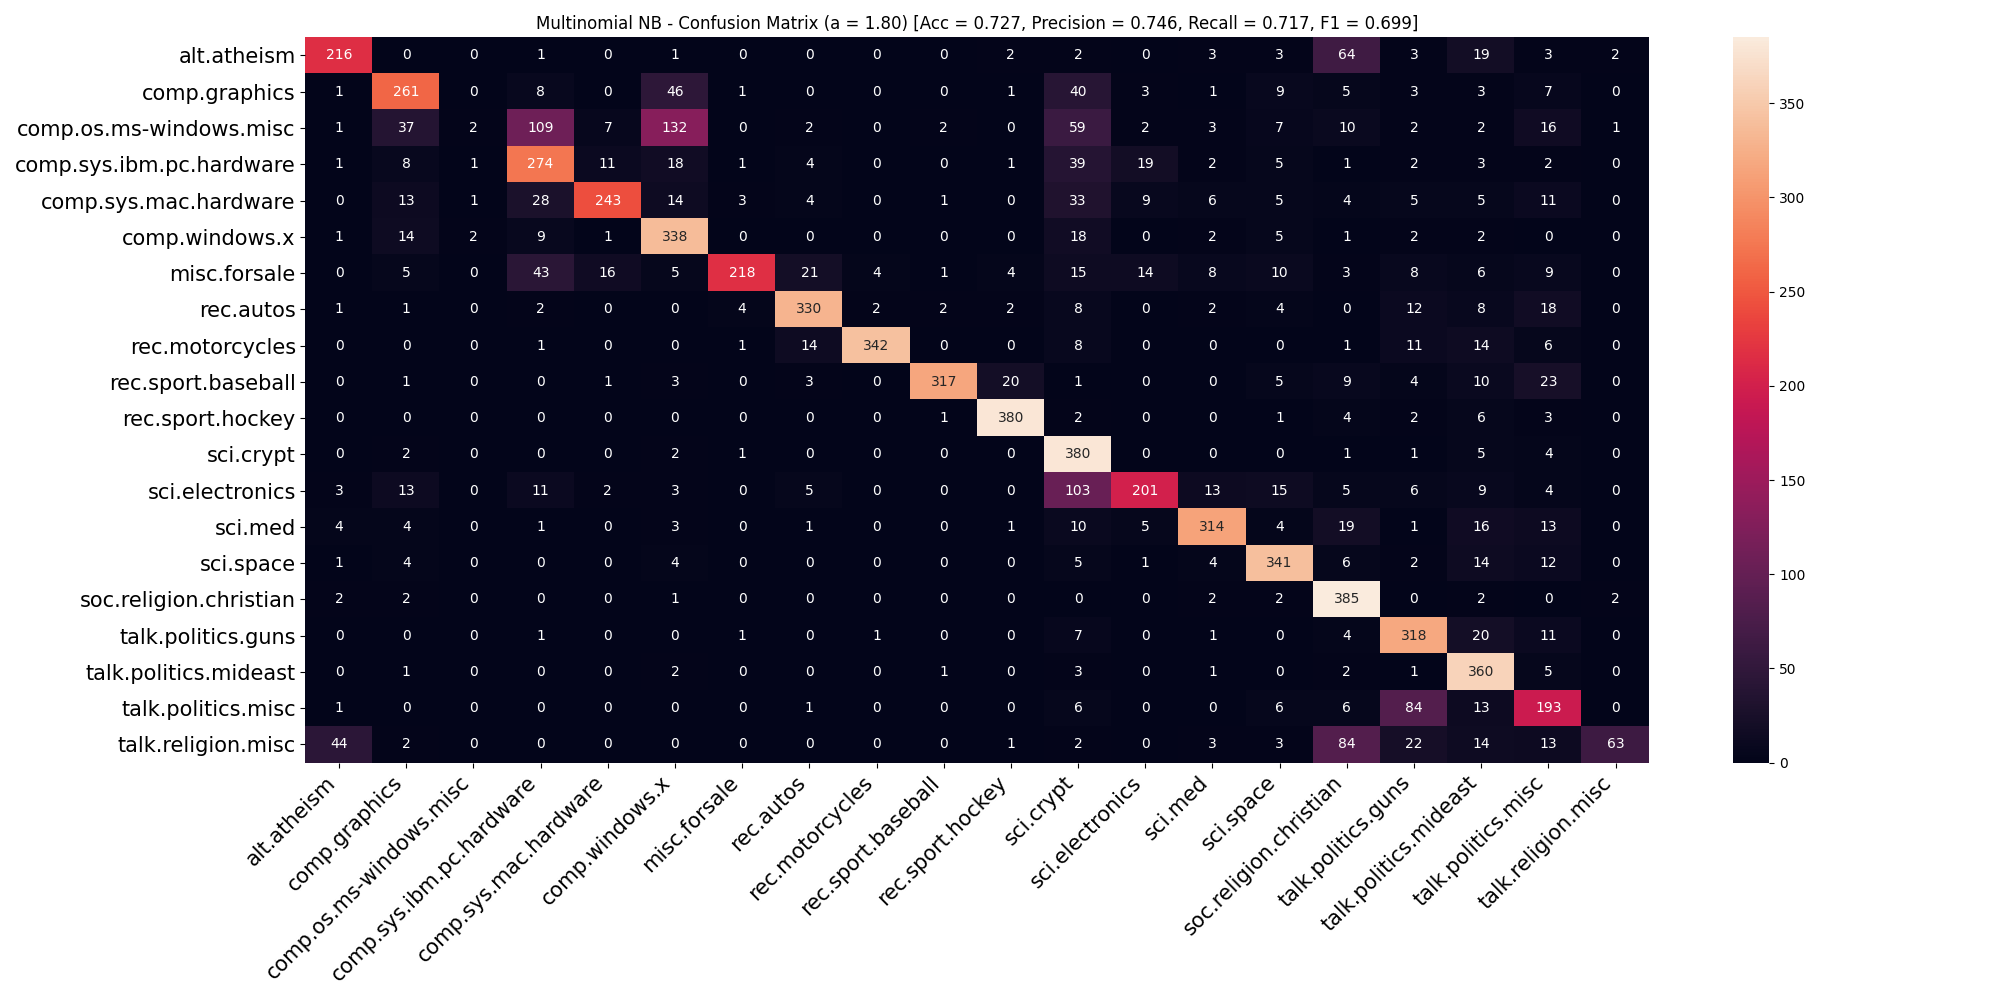
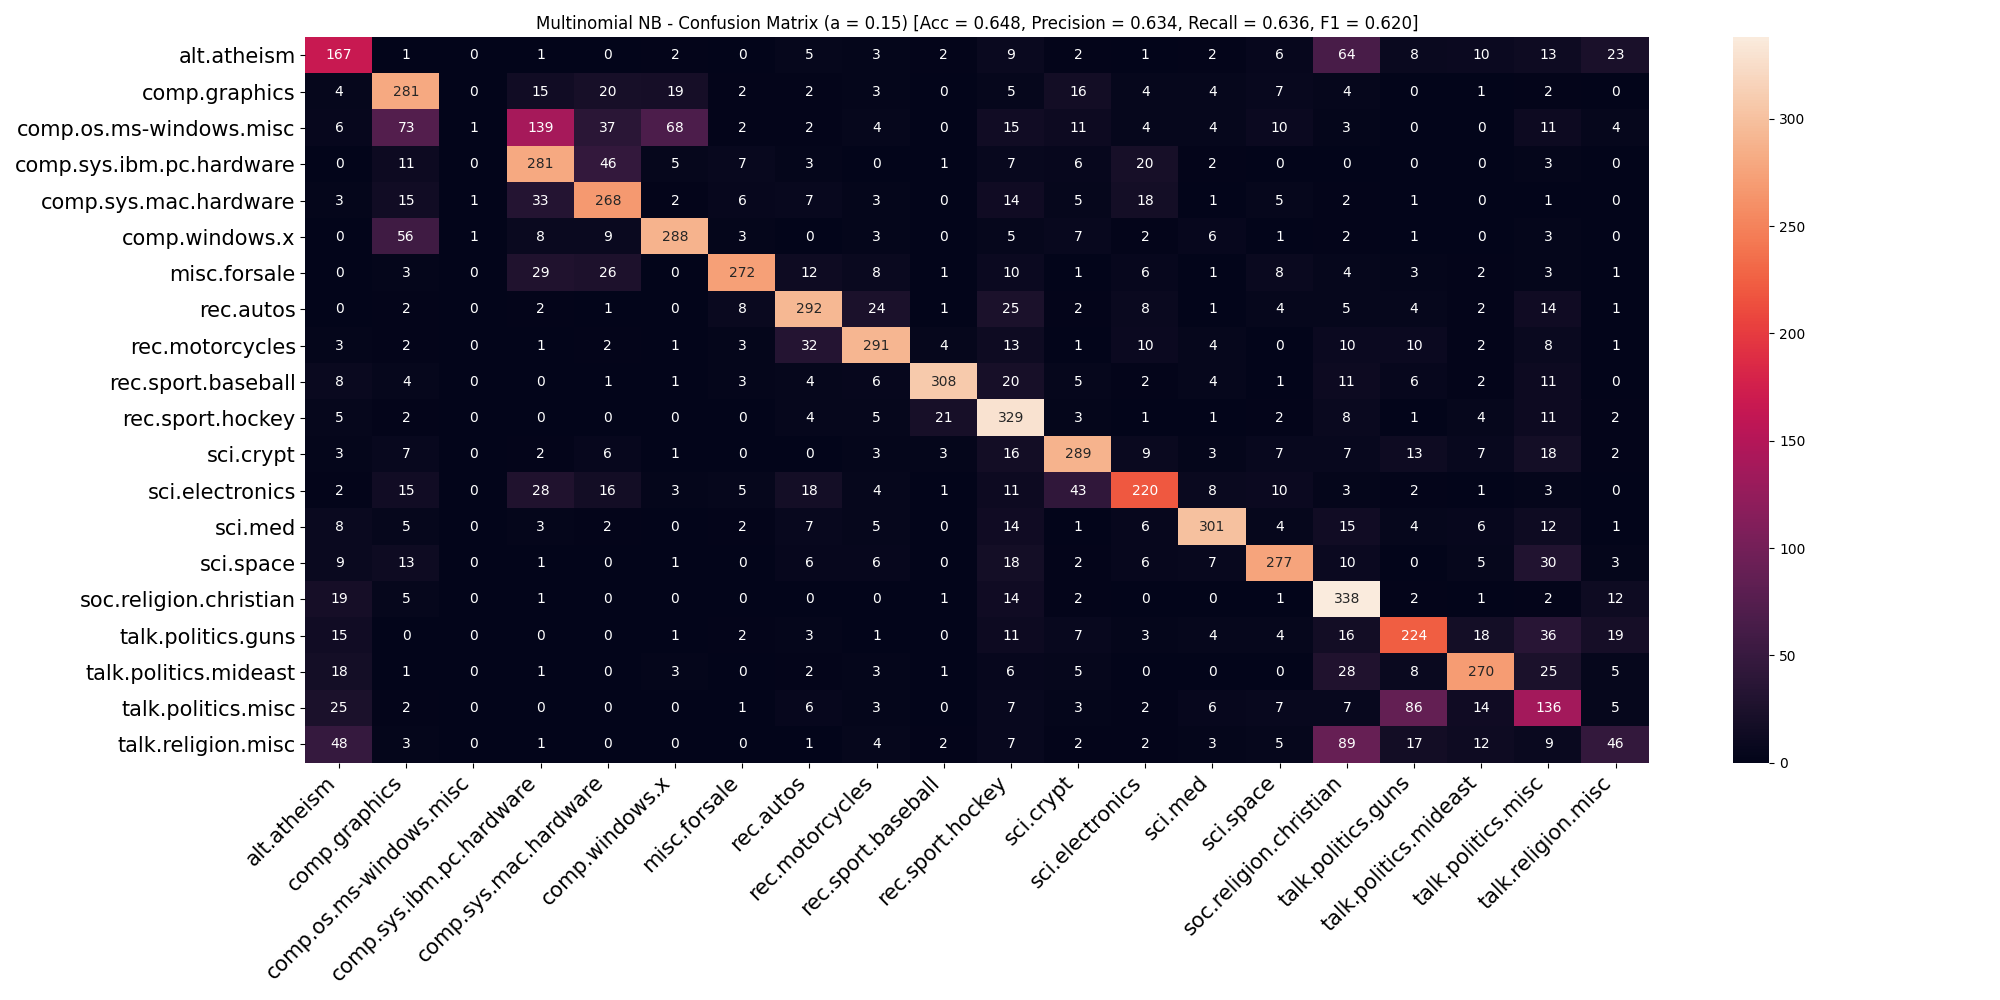
Final.

diff --git a/project_5/bayesian_learning.py b/project_5/bayesian_learning.py
@@ -35,10 +35,10 @@ def main():
     acc = 0.0
     recall = 0.0
     precision = 0.0
-    f1 = 1.0
-    a = 0.1
+    f1 = 0.0
+    a = 2.0
     y_predicted = None
-    while f1 >= 0.7:
+    while f1 < 0.7 and a > 0.1:
         classifier = MultinomialNB(alpha=a)
         classifier.fit(x_train, y_train)
 
@@ -47,9 +47,9 @@ def main():
         recall = recall_score(y_test, y_predicted, average='macro')
         precision = precision_score(y_test, y_predicted, average='macro')
         f1 = f1_score(y_test, y_predicted, average='macro')
-        a += 0.05
+        a -= 0.05
 
-    a -= 0.05
+    a += 0.05
     cf_matrix = confusion_matrix(y_test, y_predicted)
     print('------Scores------')
     print("\tAccuracy: {:.3f}".format(acc))
